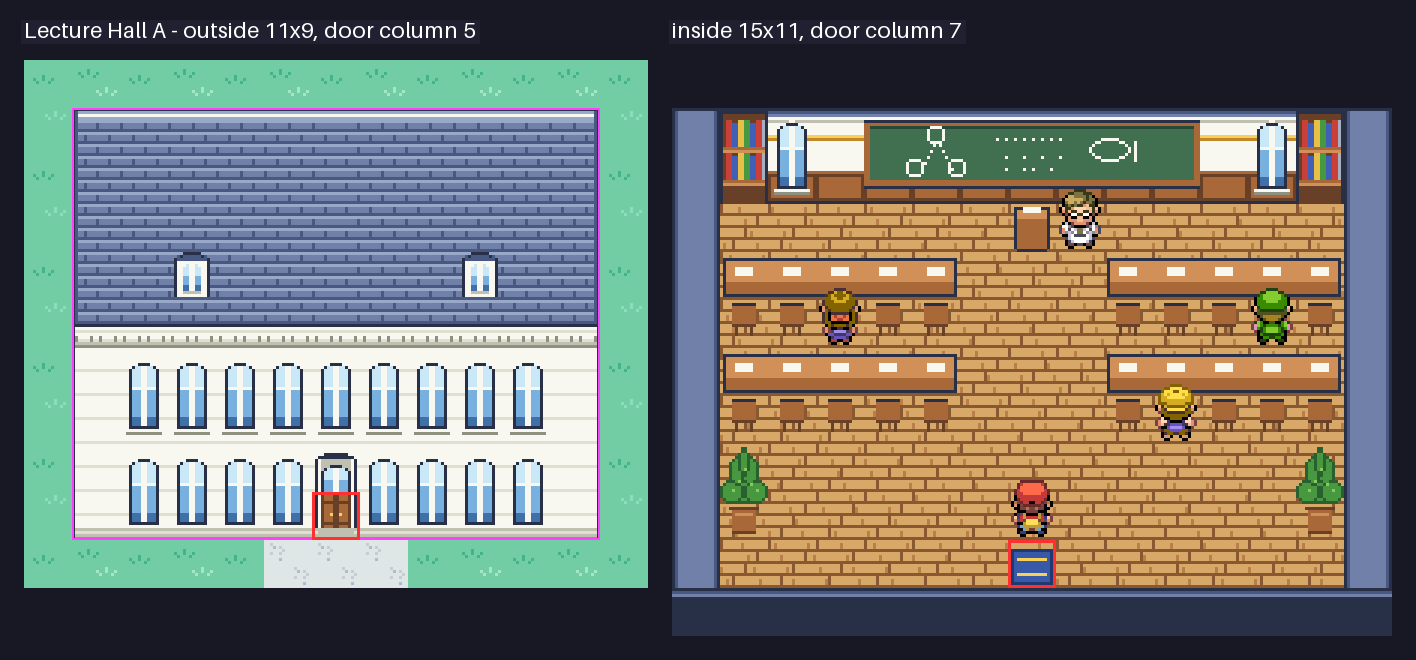
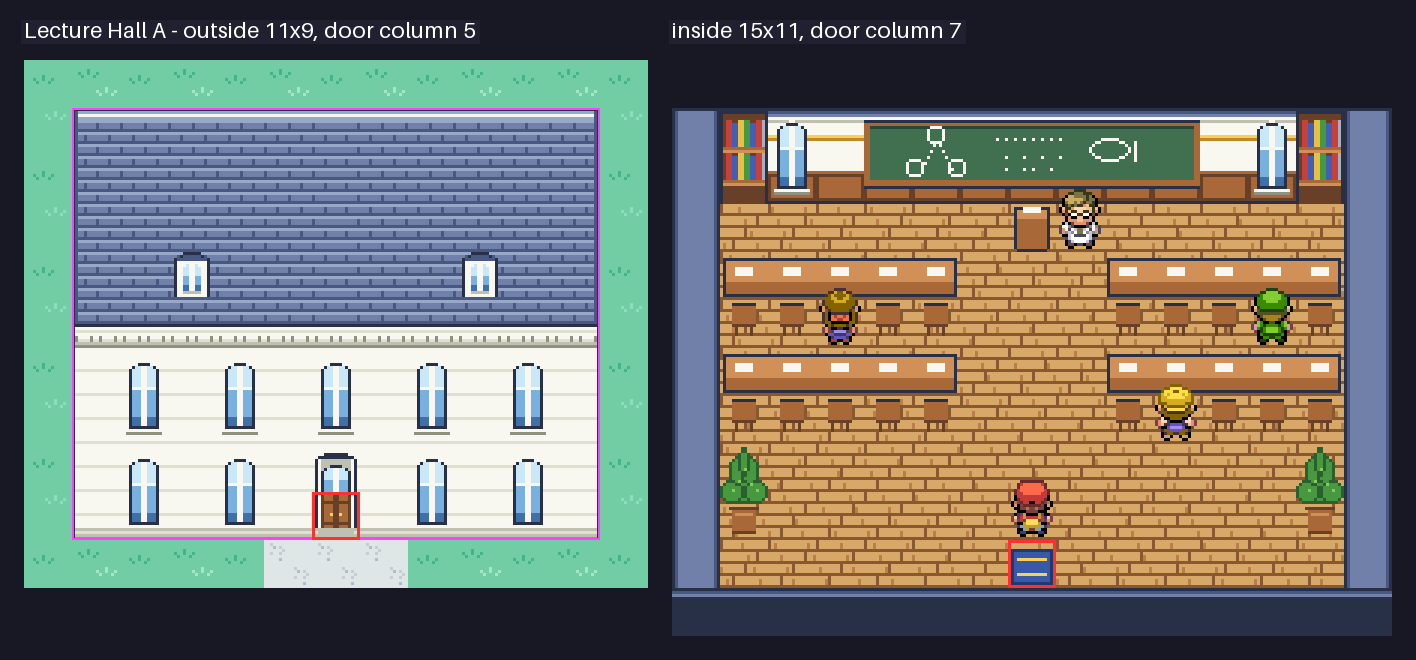
University: windows in every other column, so the facades breathe

diff --git a/tools/hack/draw_university_tiles.py b/tools/hack/draw_university_tiles.py
@@ -308,9 +308,12 @@ def pediment(P, c, base_y, half, height, emblem=True):
 
 
 def facade(P, x0, y0, w_tiles, storeys, kind='arch', skip=()):
-    """Storeys of windows (2 rows each) in columns 1..w-2, except (col, storey) in skip (storey 0 = the top one)."""
+    """Storeys of windows (2 rows each) in every other column, centered (so a mirrored building stays symmetric),
+    within columns 1..w-2, except (col, storey) in skip (storey 0 = the top one)."""
     for s in range(storeys):
         for c in range(1, w_tiles - 1):
+            if abs(2 * c - (w_tiles - 1)) % 4 not in (0, 1):  # Every other column from the middle
+                continue
             if (c, s) in skip or c in skip:
                 continue
             (window if kind == 'arch' else sqwindow)(P, x0 + c * T, y0 + s * 2 * T)
